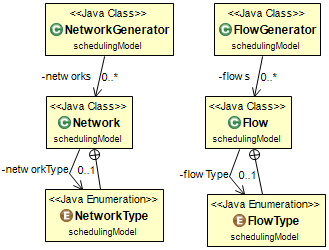
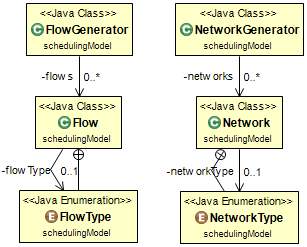
New IO uml diagram. delete deubug messages. delete unused config.

diff --git a/src/ui/Mainwindow.java b/src/ui/Mainwindow.java
@@ -166,7 +166,6 @@ public class Mainwindow extends JFrame {
 				int model_f_t_n[][][] = new int[flows.size()][ng.getNofTimeSlots()][networks.size()];
 
 				for (int n = 0; n < networks.size(); ++n) {
-					Network network = networks.elementAt(n);
 					boolean appFinished[] = new boolean[flows.size()];
 
 					for (int f = 0; f < flows.size(); ++f) {
@@ -176,7 +175,6 @@ public class Mainwindow extends JFrame {
 						int chunksToSend = flow.getChunks();
 						int sendChunks = 0;
 						int chunksPerSlot = flow.getChunksPerSlot();
-						System.out.println("Chunks: " + chunksToSend);
 						// application will send chunks after there is no more
 						// network open, than continue
 						if (flow.getStartTime() > ng.getNofTimeSlots())
@@ -195,7 +193,6 @@ public class Mainwindow extends JFrame {
 							}
 
 						}
-						System.out.println("Send Chunks: " + sendChunks);
 					}
 				}
 

diff --git a/src/schedulingModel/Flow.java b/src/schedulingModel/Flow.java
@@ -268,7 +268,7 @@ public class Flow implements Serializable {
 
 		// Measurments: 99 pakets/s; 972Byte;
 		// 9.9 pakets/slot * 972 Byte = 9622.8 Byte/slot
-		stream.setChunksPerSlot(185);
+		stream.setChunksPerSlot(9623);
 
 		stream.setFlowType(FlowType.BUFFERABLESTREAM);
 
